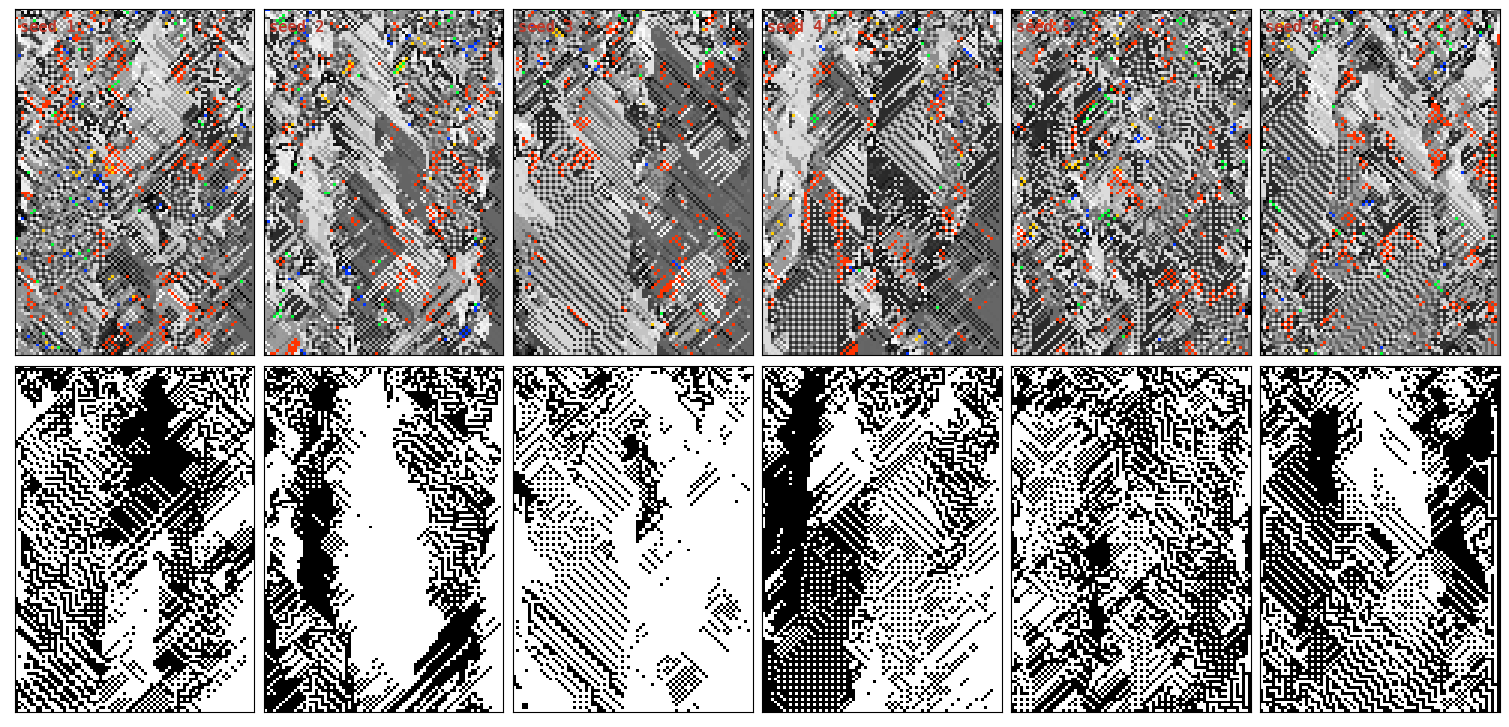
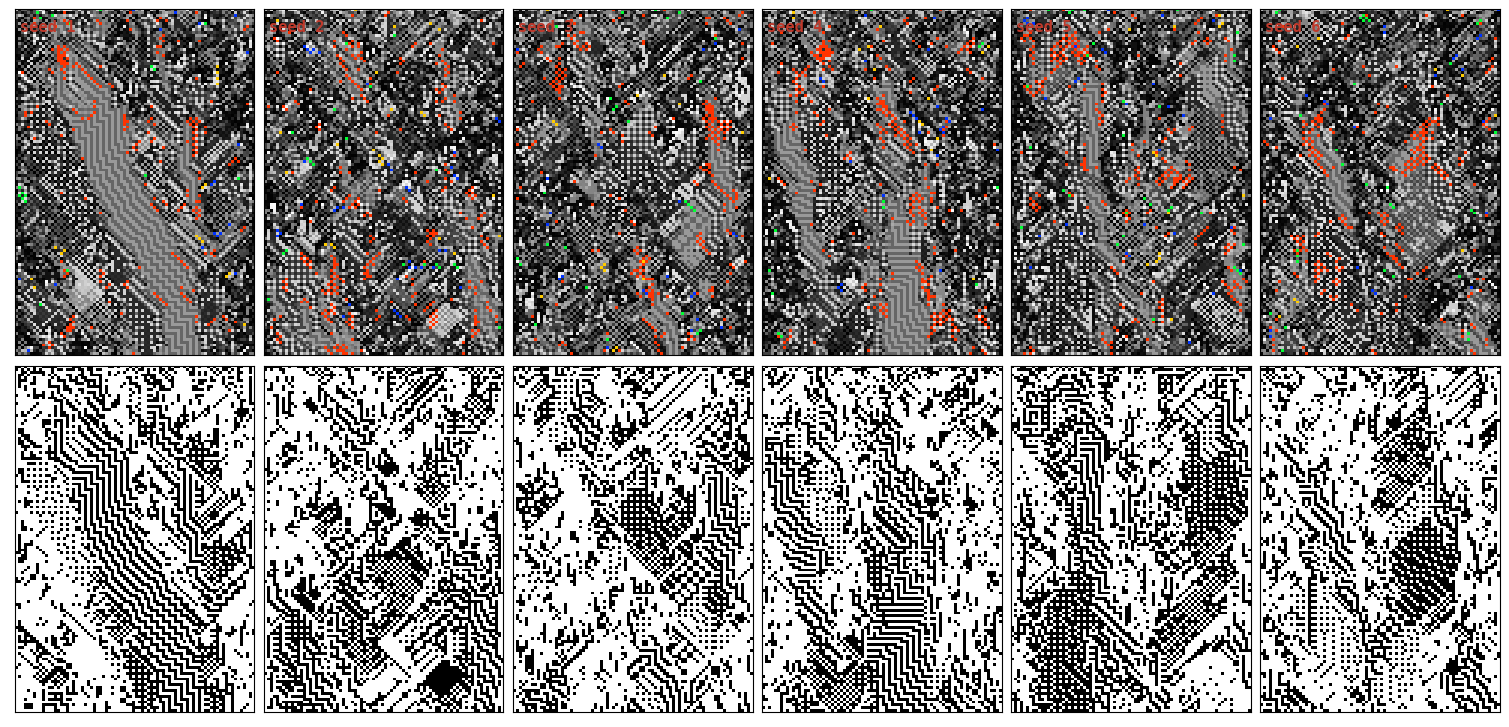
paper: restore original Figure 7 river

diff --git a/holes/tech-notes/paper/draft2.tex b/holes/tech-notes/paper/draft2.tex
@@ -522,7 +522,8 @@ new must pair a propagator with a step of a different kind.
 One such composition is worth exhibiting. Taking the offset-$+2$
 propagator---the $\gcd 2$ operator of Figure~\ref{fig:eoc}---and composing
 it with a construction step that reads the phenotype, matches it against
-local templates, and falls back to the cell's own local rule produces a
+four local template candidates, and falls back to the all-zero rule when none
+matches produces a
 \emph{river}: a coherent band of alternating phenotype that drifts through a
 disordered background and reappears in all six seeds we tried
 (Figure~\ref{fig:river}). Where the bare rotation collapses or cycles, this
@@ -535,7 +536,8 @@ two mechanisms here; a fuller catalogue of composed operators is future work.
 \includegraphics[width=\linewidth]{figures/river.png}
 \caption{A \emph{river}: a composed operator sustains a reproducible
 structure. The offset-$+2$ propagator, composed with a phenotype-reading,
-template-matching construction (fallback: the cell's own local rule), produces in
+four-candidate, first-match template construction (fallback: the all-zero
+rule), produces in
 each of six seeds a coherent band of alternating phenotype (bottom row)
 drifting through a disordered background (genotype top, six seeds; genotype
 coloured by rule as in Figures~\ref{fig:regimes}--\ref{fig:eoc}---greyscale by
